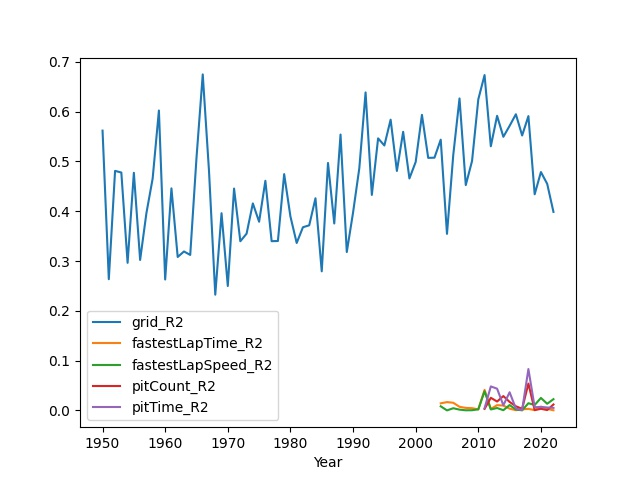
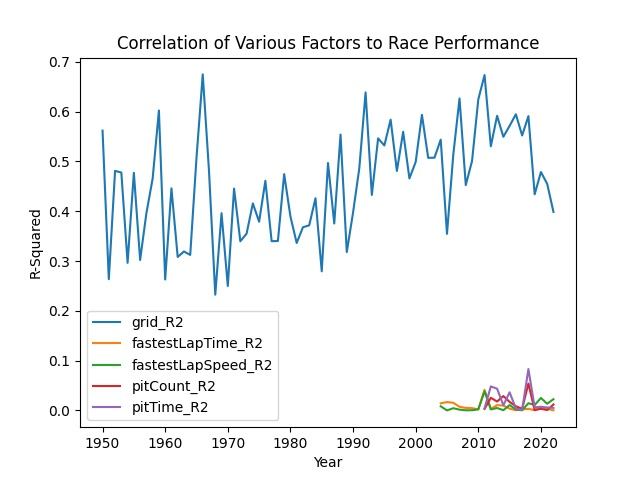
Title updates for five way factors correlation

Changed region(s): [[0.1875, 0.0625, 0.8438, 0.125], [0.0312, 0.4375, 0.0625, 0.5938]]

diff --git a/figureGeneration.py b/figureGeneration.py
@@ -82,9 +82,11 @@ def correlationFiveOverTime():
     print(df)
 
     ax = df.plot.line()
-
+    plt.title("Correlation of Various Factors to Race Performance")
+    plt.xlabel("Year")
+    plt.ylabel("R-Squared")
     plt.show()
     ax.get_figure().savefig('figureOutput/correlationFactors.jpg')
 
-createLapTimeStatsFigures()
+correlationFiveOverTime()
 
